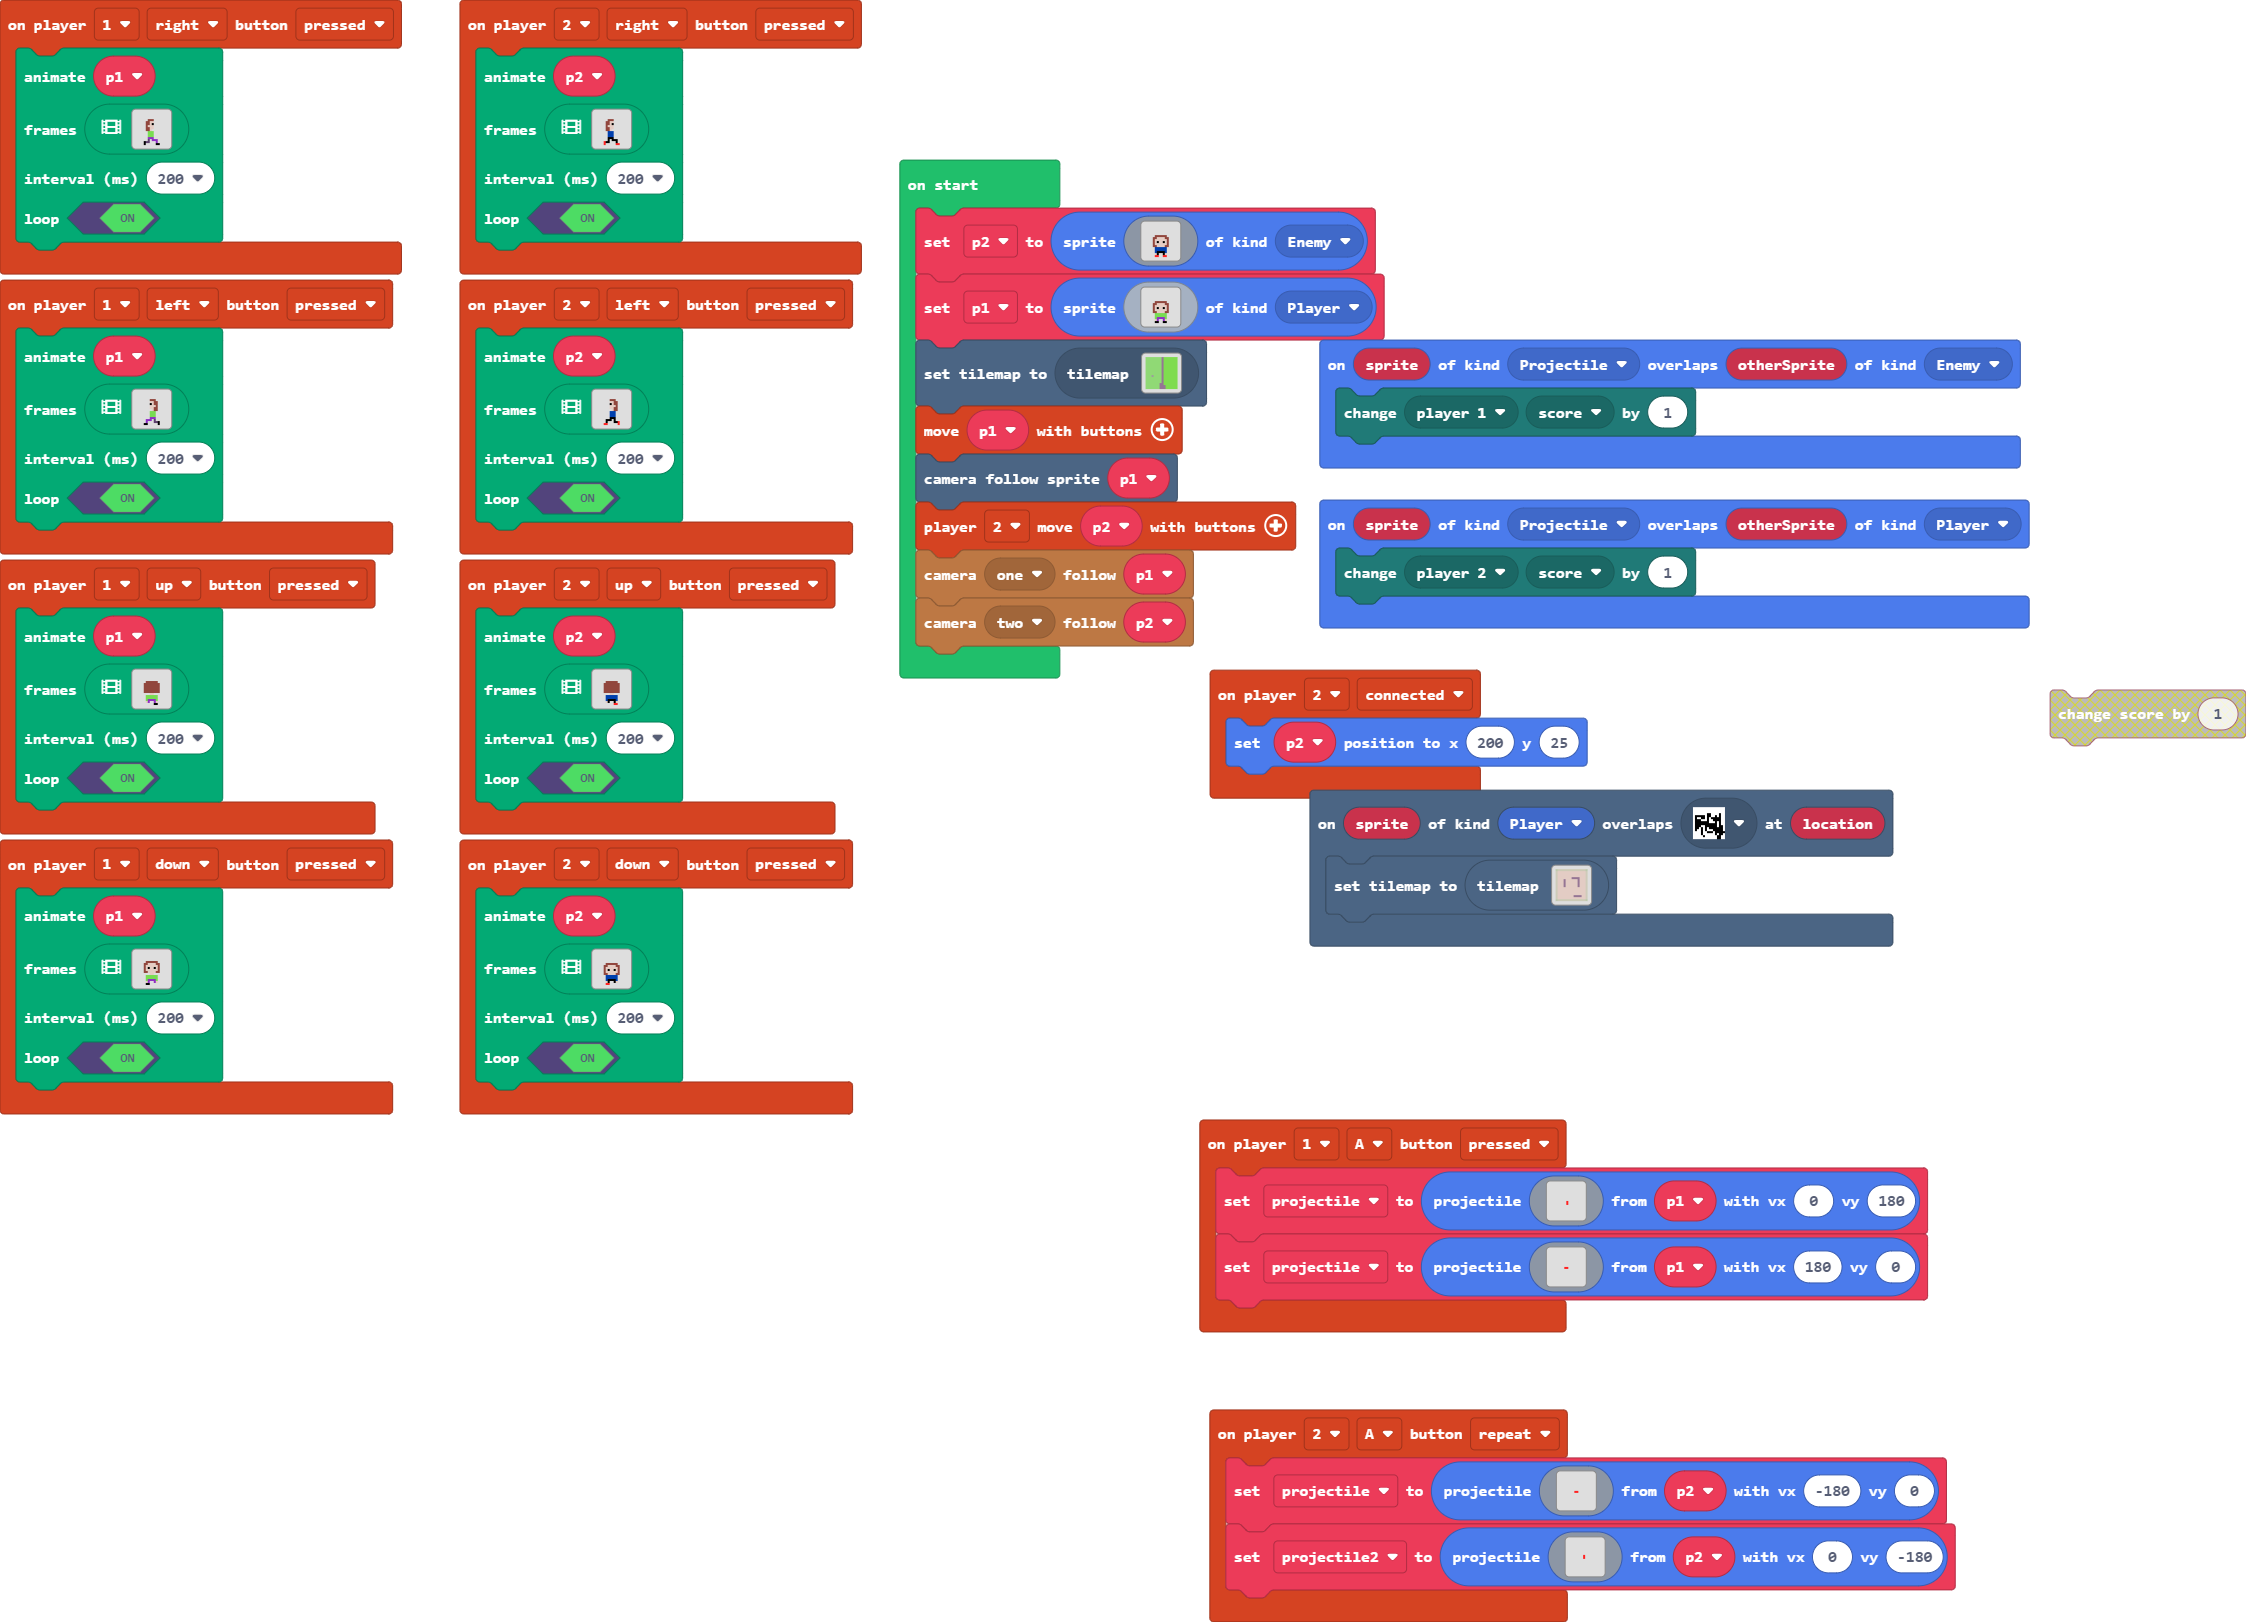
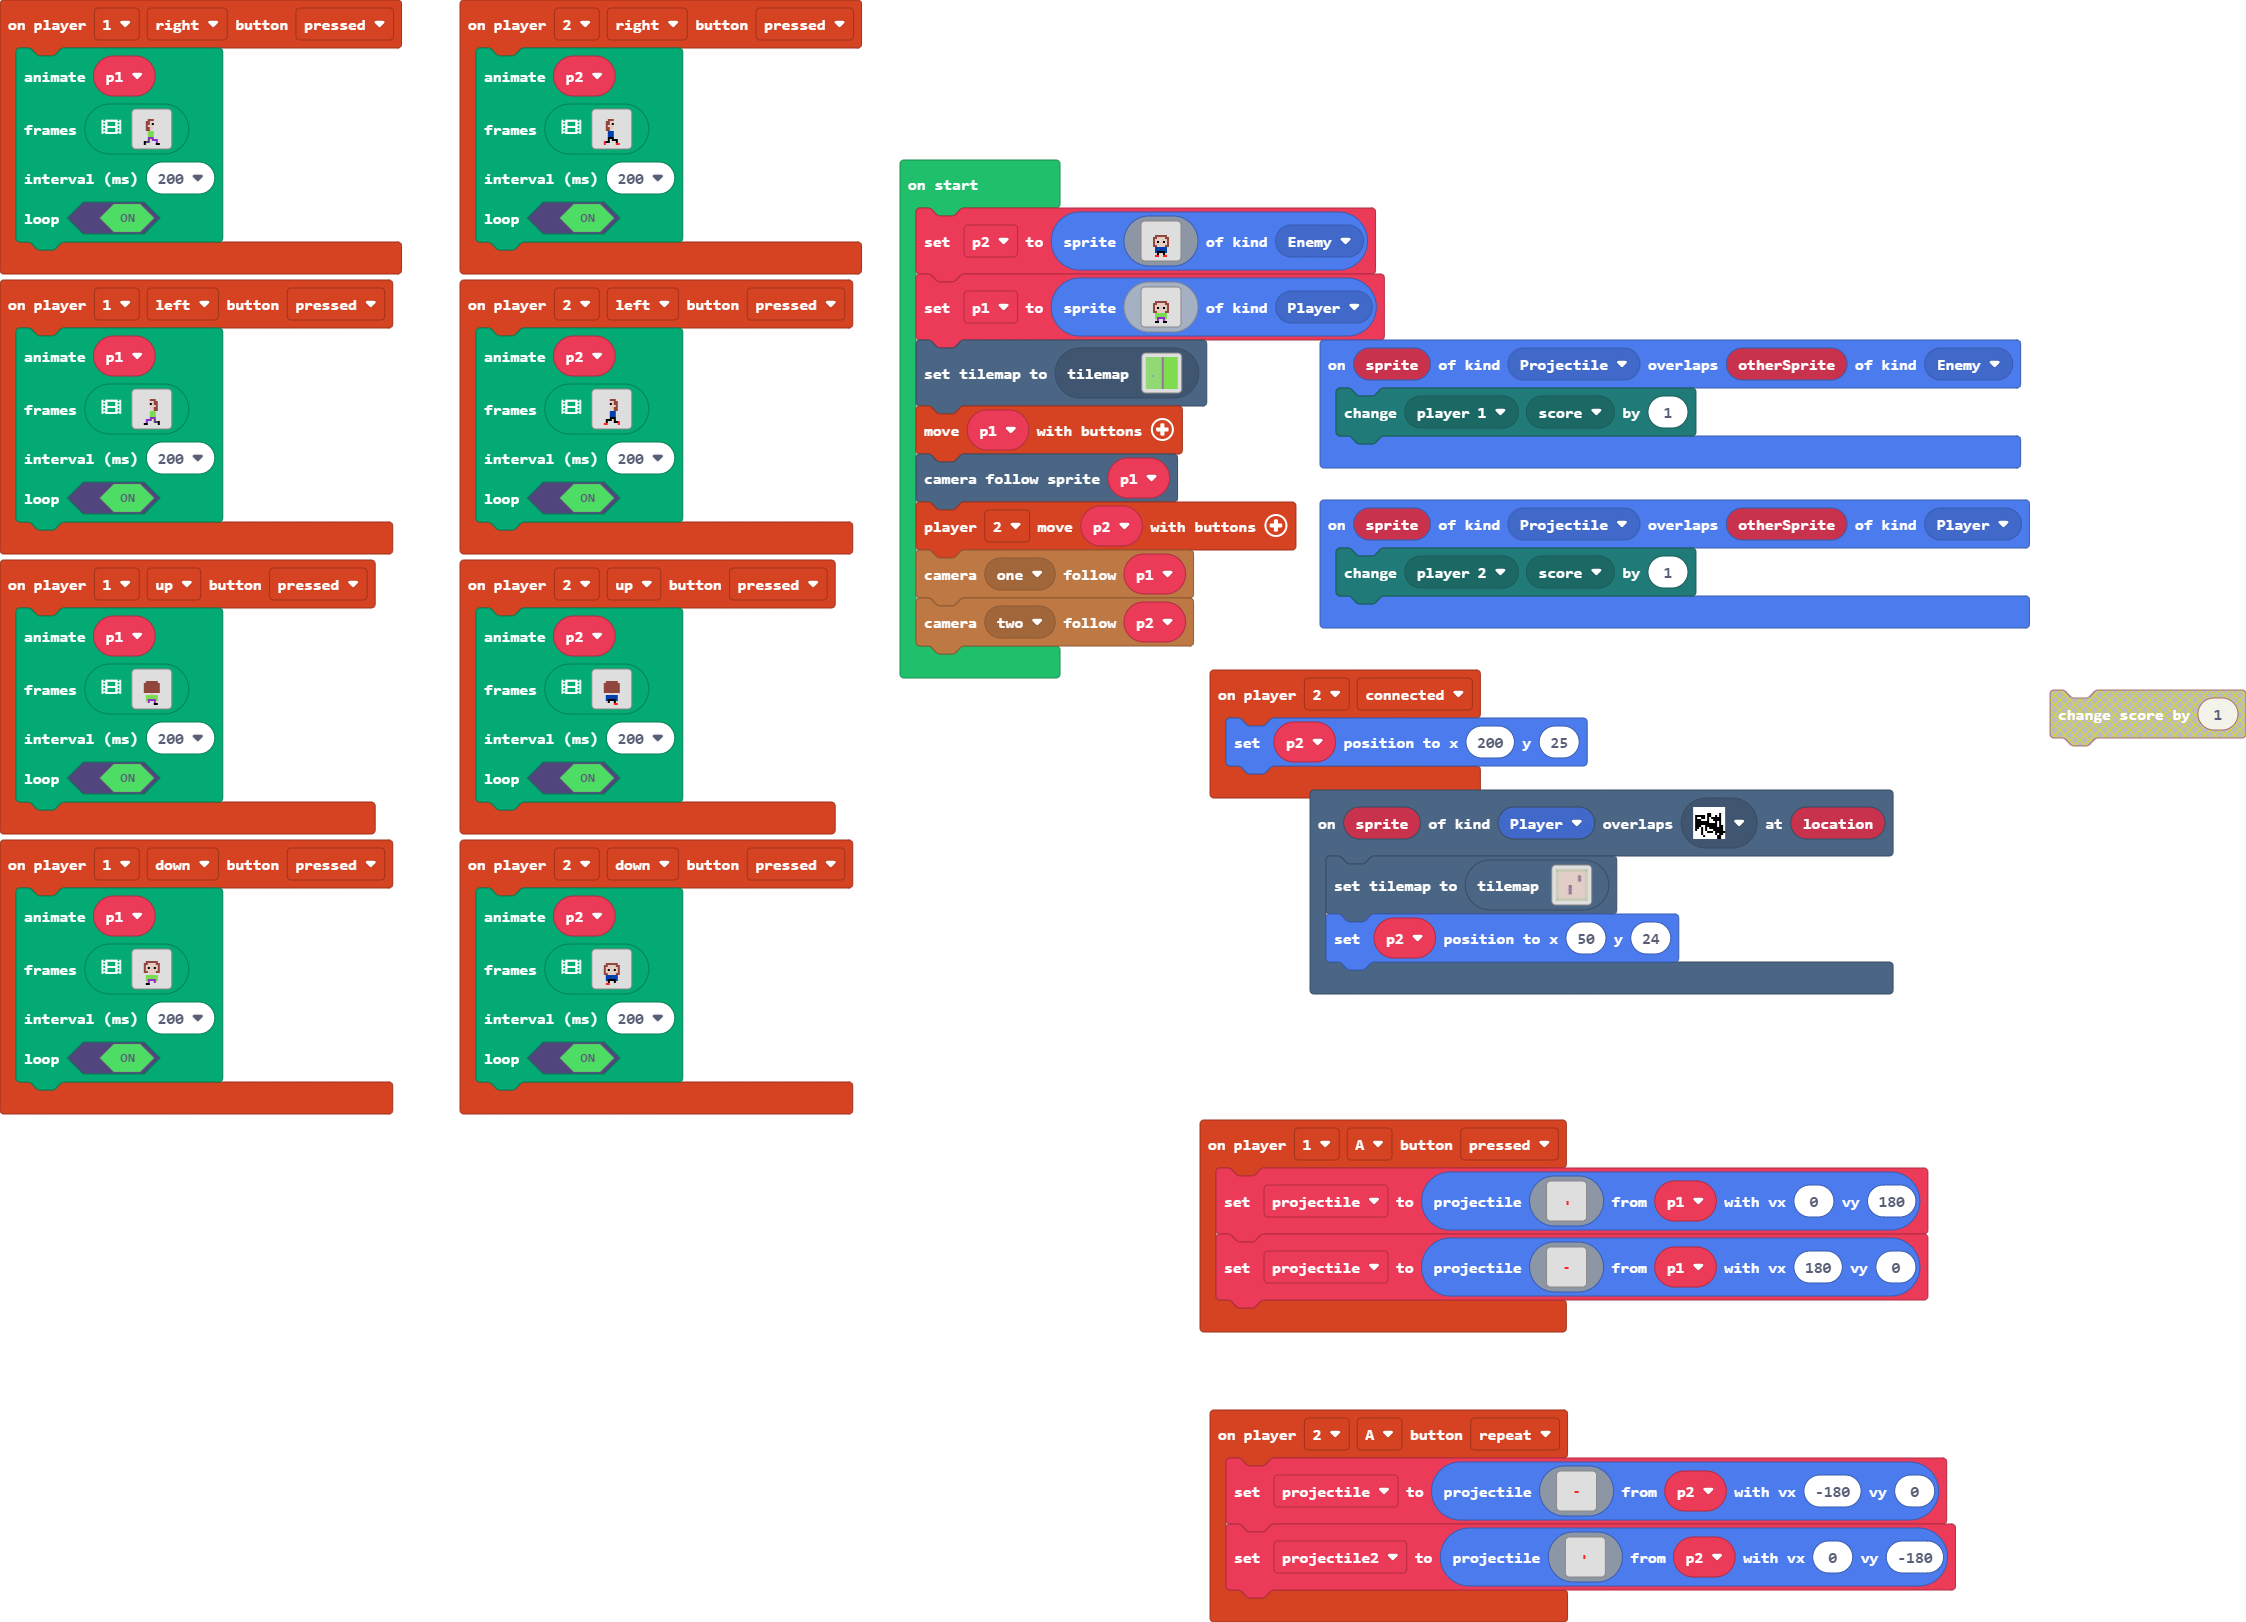
hd2eyife

Changed region(s): [[0.561, 0.5549, 0.8415, 0.6165], [0.8415, 0.9556, 0.8727, 0.9864], [0.748, 0.4932, 0.7792, 0.524]]

diff --git a/tilemap.g.ts b/tilemap.g.ts
@@ -66,25 +66,6 @@ namespace myTiles {
 . . . . . . . . . . . . . . . . 
 . . . . . . . . . . . . . . . . 
 `, [myTiles.transparency16], TileScale.Sixteen);
-            case "level1":
[1 lines of base64/hex data omitted]
-. . . . . . . . . . . . . . . . 
-. . . . . . . . . . . . . . . . 
-. . . . . . . . . . . . . . . . 
-. . . . . . . . . . . . . . . . 
-. . . . . . . . 2 2 2 2 . . . . 
-. . . . 2 . . . . . . 2 . . . . 
-. . . . 2 . . . . . . 2 . . . . 
-. . . . 2 . . . . . . 2 . . . . 
-. . . . 2 . . . . . . 2 . . . . 
-. . . . . . . . . . . . . . . . 
-. . . . . . . . . . . . . . . . 
-. . . . . . . . . . . . . . . . 
-. . . . . . . . . . . . . . . . 
-. . . . . . . . . 2 2 2 2 . . . 
-. . . . . . . . . . . . . . . . 
-. . . . . . . . . . . . . . . . 
-`, [myTiles.transparency16,sprites.castle.tilePath5,sprites.castle.tilePath2,sprites.castle.tilePath3,sprites.castle.tilePath1,sprites.castle.tilePath8,sprites.castle.tilePath9,sprites.castle.tilePath7,sprites.castle.tilePath6,sprites.castle.tilePath4,myTiles.tile1], TileScale.Sixteen);
             case "level5":
             case "level5":return tiles.createTilemap(hex`1000100000000000000000000000000000000000000000000000000000000000000000000000000000000000000000000000000000000000000000000000000000000000000000000000000000000000000000000000000000000000000000000000000000000000000000000000000000000000000000000000000000000000000000000000000000000000000000000000000000000000000000000000000000000000000000000000000000000000000000000000000000000000000000000000000000000000000000000000000000000000000000000000000000000000000000000000000000000000000000000000000000000000000000000000000000000000`, img`
 . . . . . . . . . . . . . . . . 
@@ -123,6 +104,19 @@ namespace myTiles {
 . . . . . . . . 2 . . . . . . . 
 . . . . . . . . 2 . . . . . . . 
 `, [myTiles.transparency16,myTiles.tile1,sprites.castle.tileGrass1,sprites.castle.tileGrass2,myTiles.tile2], TileScale.Sixteen);
+            case "level1":
[1 lines of base64/hex data omitted]
+. . . . . . . . . . 
+. . . . . . . . . . 
+. . . . . . . 2 . . 
+. . . . . . . 2 . . 
+. . . . . . . . . . 
+. . . . 2 . . . . . 
+. . . . 2 . . . . . 
+. . . . 2 . . . . . 
+. . . . . . . . . . 
+. . . . . . . . . . 
+`, [myTiles.transparency16,sprites.castle.tilePath5,sprites.castle.tilePath2,sprites.castle.tilePath3,sprites.castle.tilePath1,sprites.castle.tilePath8,sprites.castle.tilePath9,sprites.castle.tilePath7,sprites.castle.tilePath6,sprites.castle.tilePath4,myTiles.tile1], TileScale.Sixteen);
         }
         return null;
     })

diff --git a/main.ts b/main.ts
@@ -1,5 +1,6 @@
 scene.onOverlapTile(SpriteKind.Player, assets.tile`myTile0`, function (sprite, location) {
     tiles.setCurrentTilemap(tilemap`level1`)
+    p2.setPosition(50, 24)
 })
 controller.player2.onButtonEvent(ControllerButton.A, ControllerButtonEvent.Repeated, function () {
     projectile = sprites.createProjectileFromSprite(img`
